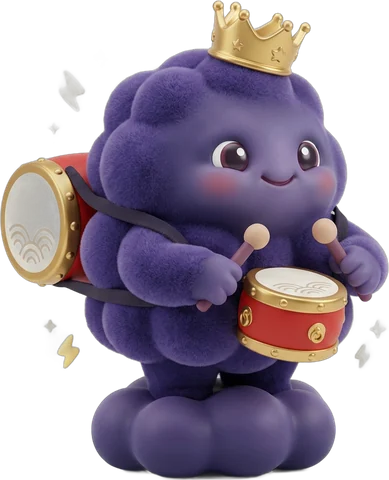
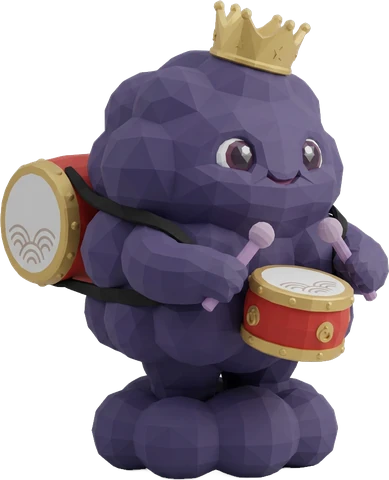
Sakuradalen: low poly-monstre, samlekort, pappeske/trekasse/gullskrin og påkledningsfigur
- Alle 20 monstrene i low poly, vist på samlekort i klassefargen
- Fangstvinduet: monsteret stort, boksen som liten figur
- Boks-verkstedet og nye boksnavn (lagrede spill flyttes over)
- Kle på seg og Klær som passer: eleven kler på en figur (bilder/kle)

Claude-Session: https://claude.ai/code/session_014BdYtb4wo7uebnU85BWQs8

diff --git a/sakuradalen/oppgaver.js b/sakuradalen/oppgaver.js
@@ -156,10 +156,38 @@ var HENDER_STEG = [null,
   ['🚰 Skru på vannet','🧼 Ta såpe','👐 Gni hendene godt','💦 Skyll av såpa','🧻 Tørk hendene']
 ];
 var KLE_PAA = [null,
-  [['🩲 Truse','👖 Bukse','👟 Sko'], ['👕 T-skjorte','🧶 Genser','🧥 Jakke'], ['🧦 Sokker','👟 Sko'], ['🧥 Jakke','🎒 Sekk']],
-  [['🩲 Truse','👖 Bukse','👟 Sko','🚪 Gå ut'], ['👕 T-skjorte','🧶 Genser','🧥 Jakke','🎒 Sekk'], ['🧦 Ullsokker','🧥 Vinterdress','🥾 Vintersko','🧤 Votter']],
-  [['🩲 Truse','👕 T-skjorte','🧶 Genser','🧥 Jakke','🎒 Sekk'], ['🩲 Undertøy','🧦 Ullsokker','🧥 Vinterdress','🥾 Vintersko','🧤 Votter'], ['👕 T-skjorte','🧶 Genser','🧥 Jakke','🦺 Refleksvest','🎒 Sekk']]
+  [['🩲 Truse','👖 Bukse','👟 Sko'], ['👕 T-skjorte','🧶 Genser','🧥 Jakke'], ['🧦 Sokker','👖 Bukse','👟 Sko'], ['👕 T-skjorte','🧥 Jakke','🎒 Sekk']],
+  [['🩲 Truse','🧦 Sokker','👖 Bukse','👟 Sko'], ['👕 T-skjorte','🧶 Genser','🧥 Jakke','🎒 Sekk'], ['🧦 Ullsokker','🧥 Vinterdress','🥾 Vintersko','🧤 Votter'], ['🩲 Truse','👖 Bukse','👕 T-skjorte','🧶 Genser']],
+  [['🩲 Truse','🧦 Sokker','👖 Bukse','👕 T-skjorte','🧶 Genser','👟 Sko'], ['🩲 Undertøy','🧦 Ullsokker','🧥 Vinterdress','🥾 Vintersko','🧤 Votter'], ['👕 T-skjorte','🧶 Genser','🧥 Jakke','🦺 Refleksvest','🎒 Sekk'], ['🩲 Truse','🧦 Sokker','👖 Bukse','👕 T-skjorte','🧥 Jakke','👟 Sko','🎒 Sekk']]
 ];
+/* Påkledningsfiguren. Figuren og plaggene ligger i bilder/kle/. Plaggene er tegnet på figuren (Higgsfield) og klipt ut,
+   så hvert plagg har sin faste plass: KLE_POS = [venstre, topp, bredde] i prosent av figurbildet (lages sammen med bildene).
+   s = plassen på kroppen (to plagg på samme plass bytter med hverandre), z = hvilket lag det ligger i (høyest ligger øverst),
+   etter = plagg som må være på FØR dette i «Kle på seg» (gjelder bare de som er med i oppgaven). */
+var KROPP = {
+  truse:{s:'under',z:1}, undertoy:{s:'under',z:1},
+  sokker:{s:'sokk',z:2,etter:['truse','undertoy']}, ullsokker:{s:'sokk',z:2,etter:['undertoy']},
+  bukse:{s:'bein',z:3,etter:['truse','undertoy','sokker']}, shorts:{s:'bein',z:3}, badetoy:{s:'bein',z:3},
+  tskjorte:{s:'skjorte',z:4,etter:['truse']}, pentoy:{s:'skjorte',z:4},
+  genser:{s:'genser',z:5,etter:['tskjorte']}, gymtoy:{s:'hel',z:5}, pysj:{s:'hel',z:5}, vinterdress:{s:'hel',z:5,etter:['undertoy','ullsokker']}, regnbukse:{s:'ytterbein',z:5},
+  sko:{s:'fot',z:6,etter:['sokker','bukse']}, gymsko:{s:'fot',z:6}, pensko:{s:'fot',z:6}, sandaler:{s:'fot',z:6}, tofler:{s:'fot',z:6}, stovler:{s:'fot',z:6},
+  vintersko:{s:'fot',z:6,etter:['vinterdress','ullsokker']},
+  jakke:{s:'jakke',z:9,etter:['tskjorte','genser']}, regnjakke:{s:'jakke',z:9}, vinterjakke:{s:'jakke',z:9},
+  refleksvest:{s:'vest',z:10,etter:['jakke']}, sekk:{s:'rygg',z:11,etter:['jakke','refleksvest','sko']}, skjerf:{s:'hals',z:12},
+  lue:{s:'hode',z:13}, caps:{s:'hode',z:13}, solhatt:{s:'hode',z:13}, solbriller:{s:'ansikt',z:13},
+  votter:{s:'hand',z:13,etter:['vinterdress','vintersko']}, handkle:{s:'arm',z:13}
+};
+var KLE_FORHOLD = '876/1143';
+var KLE_POS = {
+  badetoy:[29.0,54.77,42.12], bukse:[29.45,54.77,41.21], caps:[31.51,4.72,37.1], genser:[5.02,33.86,89.5], gymsko:[25.34,84.08,49.43], gymtoy:[20.09,34.12,59.93],
+  handkle:[68.49,39.98,24.77], jakke:[6.16,31.67,87.79], lue:[30.37,1.05,39.27], pensko:[29.45,82.76,41.32], pentoy:[6.51,31.67,87.67], pysj:[8.45,33.95,83.33],
+  refleksvest:[29.45,33.51,41.32], regnbukse:[29.57,33.68,40.98], regnjakke:[6.74,28.08,86.76], sandaler:[30.02,86.7,40.07], sekk:[23.29,32.9,53.65], shorts:[29.68,54.86,40.87],
+  skjerf:[31.51,28.35,36.87], sko:[29.45,82.76,41.32], sokker:[30.94,81.36,38.24], solbriller:[31.39,15.84,37.33], solhatt:[15.64,4.81,68.95], stovler:[30.37,74.19,39.38],
+  tofler:[29.57,88.28,40.98], truse:[29.34,55.38,41.55], tskjorte:[19.18,33.6,61.76], ullsokker:[30.14,74.1,39.84], undertoy:[30.02,34.12,40.07], vinterdress:[10.05,28.43,80.14],
+  vinterjakke:[4.45,24.67,91.21], vintersko:[29.22,76.55,41.67], votter:[1.37,44.79,97.37]
+};
+/* Bakgrunnen bak figuren i «Klær som passer». */
+var KLE_SCENE = {'🌧':'#b9c6d6,#8fa3b8','❄':'#eaf3fb,#c9dcee','☀':'#fff3c4,#ffd98a','🏃':'#dff0d8,#b9dcae','🏊':'#cdeffa,#8fd3ee','🌙':'#3d3a66,#2b2440','🎂':'#fde3ee,#f6bcd2','🏖':'#cdeffa,#f6e3a8','💨':'#e9d9c0,#cdb48e'};
 /* Klær. Brukes i «klær som passer». */
 var PLAGG = {
   regnjakke:'🧥 Regnjakke', regnbukse:'👖 Regnbukse', stovler:'🥾 Gummistøvler', paraply:'☂ Paraply',
@@ -310,13 +338,15 @@ var LAG = {
   lek: function(niv){return situasjon(en(LEK), niv)},
   hjelp: function(niv){return situasjon(en(HJELP), niv)},
   hverdag: function(niv){return situasjon(en(HVERDAG), niv)},
-  rekkefolge: function(niv){return {sp:'Du skal kle på deg. Trykk på det du tar på først, og så videre.', bilde:'<span class="stor-e">👕</span>', type:'rekke', steg:en(KLE_PAA[niv])}},
+  rekkefolge: function(niv){ var steg = en(KLE_PAA[niv]);
+    return {sp:'Du skal kle på deg. Trykk på det du tar på først, og så videre.', hint:'Dra klærne bort på figuren, eller trykk på dem.', type:'kle', modus:'rekke', steg:steg,
+      plagg:stokk(steg.map(function(t){return {id:TING[t.slice(t.indexOf(' ')+1)], navn:t.slice(t.indexOf(' ')+1)}}))} },
   klaer: function(niv){
-    var k = en(KLAER), n = Math.min(niv, k.ok.length), ok = stokk(k.ok).slice(0,n), feil = stokk(k.feil).slice(0, niv===1 ? 2 : n);
-    var valg = stokk(ok.map(function(id){return {t:PLAGG[id], ok:true}}).concat(feil.map(function(id){return {t:PLAGG[id], ok:false}})));
-    var del = k.sp.split('. '), forst = del[0]+'.';
-    if(niv===1) return {sp:forst+' Hva passer best?', lyd:[forst,'Hva passer best?'], bilde:'<span class="stor-e">'+k.e+'</span>', type:'valg', lang:true, valg:valg};
-    return {sp:k.sp+' Velg '+n+' ting.', lyd:[forst, del[1], 'Velg '+tallord(n)+' ting.'], bilde:'<span class="stor-e">'+k.e+'</span>', type:'flere', valg:valg};
+    /* Figuren kles på: alle plaggene som passer må på, og ingen av de som ikke passer. Høyere nivå gir flere plagg å velge mellom. */
+    var k = en(KLAER), n = Math.min(niv+1, k.ok.length), ok = stokk(k.ok).slice(0,n), feil = stokk(k.feil).slice(0, niv+1);
+    var navn = function(id){var t = PLAGG[id]; return t.slice(t.indexOf(' ')+1)}, del = k.sp.split('. ');
+    return {sp:k.sp, lyd:[del[0]+'.', del[1]], hint:'Dra det som passer bort på figuren, eller trykk på det. Trykk «Ferdig» når du er klar.', type:'kle', modus:'velg', scene:k.e,
+      steg:ok.map(function(id){return PLAGG[id]}), ok:ok, plagg:stokk(ok.concat(feil)).map(function(id){return {id:id, navn:navn(id)}})};
   }
 };
 function situasjon(q, niv){return {sp:q.sp, bilde:'<span class="stor-e">'+q.e+'</span>', type:'valg', lang:true, valg:valgFra(q.ok, q.feil, niv===1 ? 2 : 3)}}
@@ -357,7 +387,7 @@ document.addEventListener('click', function(e){ if(e.target.closest && e.target.
 function klargjor(o){
   o.lyd = o.lyd || [ore(o.sp)];
   (o.valg||[]).forEach(function(v){ if(o.engelsk){v.l = v.t; v.eng = true} else if(v.l === undefined) v.l = o.bildevalg || /^\d+$/.test(v.t) ? null : ore(v.t) });
-  if(o.steg) o.stegLes = o.steg.map(ore);
+  if(o.steg && o.type!=='kle') o.stegLes = o.steg.map(ore);
   return o;
 }
 function klipp(o){ klargjor(o); return o.lyd.concat((o.valg||[]).filter(function(v){return v.l && !v.eng}).map(function(v){return v.l}), o.stegLes||[]) }
@@ -382,6 +412,10 @@ function kalkHtml(){
   return '<div class="kalk"><output id="kdisp" aria-live="polite">0</output><div class="ktast">'+['7','8','9','+','4','5','6','−','1','2','3','×','C','0','=','÷'].map(function(k){
     return '<button data-k="'+k+'" class="'+(/\d/.test(k)?'':'op')+(k==='='?' er':'')+'">'+k+'</button>'}).join('')+'</div></div>';
 }
+function plaggPaa(id){
+  var p = KLE_POS[id];
+  return '<button class="kpaa" data-av="'+id+'" style="left:'+p[0]+'%;top:'+p[1]+'%;width:'+p[2]+'%;z-index:'+KROPP[id].z+'" aria-label="Ta av"><img src="bilder/kle/'+id+'.webp" alt=""></button>';
+}
 function vis(o, stasjon, ferdig, feil){
   klargjor(o);
   var tm = TEMA[o.tema], kropp = '', feilet = false, alt = function(i, l, inni){return l ? '<span class="alt"><button class="hor" data-hor="'+i+'" aria-label="Hør">🔊</button>'+inni+'</span>' : inni};
@@ -390,6 +424,9 @@ function vis(o, stasjon, ferdig, feil){
   if(o.type==='linje') kropp = linjeHtml(o.linje, true);
   if(o.type==='kalk')  kropp = kalkHtml()+'<p class="midt"><button class="gull" data-sjekk>Dette er svaret</button></p>';
   if(o.type==='rekke') kropp = '<ol class="rekke" id="rlagt"></ol><div class="svar lang" id="rvalg">'+stokk(o.steg.map(function(t,i){return {t:t,i:i}})).map(function(v){return alt(v.i, o.stegLes[v.i], '<button data-i="'+v.i+'">'+pynt(v.t)+'</button>')}).join('')+'</div>';
+  if(o.type==='kle') kropp = '<p class="khint">'+esc(o.hint)+'</p><div class="kle"><div class="kfig" id="kfig"'+(o.scene?' style="background:linear-gradient('+KLE_SCENE[o.scene]+')"':'')+'>'+(o.scene?'<span class="kvaer">'+(o.scene==='💨'?'🍂':o.scene)+'</span>':'')+'<div class="kdukke" style="aspect-ratio:'+KLE_FORHOLD+'"><img class="kbase" src="bilder/kle/figur.webp" alt="">'+'</div></div>'+
+    '<div class="kskuff" id="kskuff">'+o.plagg.map(function(p){return '<button data-p="'+p.id+'"><img src="bilder/kle/'+p.id+'.webp" alt="" draggable="false"><span>'+esc(p.navn)+'</span></button>'}).join('')+'</div></div>'+
+    (o.modus==='velg' ? '<p class="midt"><button class="gull" data-sjekk>Ferdig</button></p>' : '');
   if(o.type==='skriv'){ var bok = o.ord.split(''); for(var x=0;x<o.ekstra;x++) bok.push(en('aeiorstln'.split('')));
     kropp = '<div class="ordfelt" id="ofelt" aria-live="polite"></div><div class="brikker">'+stokk(bok.map(function(b,i){return {b:b,i:i}})).map(function(v){return '<button data-b="'+v.b+'" data-i="'+v.i+'">'+v.b+'</button>'}).join('')+'</div><p class="midt"><button class="sek" data-visk>⌫ Visk ut</button></p>'; }
   dialog('<div class="rad" style="margin-bottom:6px"><h2 style="flex:1;margin:0;font-size:1.1rem">'+tm.ik+' '+tm.navn+'</h2><button class="sek lyd" data-les aria-label="Les opp">🔊</button></div>'+
@@ -397,6 +434,48 @@ function vis(o, stasjon, ferdig, feil){
     '<p class="tilbakemelding" id="tmeld" aria-live="assertive"></p><p style="margin-top:10px"><button class="sek" data-a="lukk">'+(feil?'Gi opp dysten':'Avbryt')+'</button></p>',
     function(el){
       el.classList.add('oppg'); if(o.type==='linje') el.classList.add('vid');
+      /* ----- påkledning ----- */
+      var paa = [], dratt = false;
+      function med(id){return o.plagg.some(function(p){return p.id===id})}
+      function skuffKnapp(id){return el.querySelector('#kskuff [data-p="'+id+'"]')}
+      function rist(k){ if(!k) return; k.classList.add('rist'); setTimeout(function(){k.classList.remove('rist')}, 400) }
+      function taAv(id){ var i = paa.indexOf(id); if(i<0) return; paa.splice(i,1); var b = el.querySelector('#kfig [data-av="'+id+'"]'); if(b) b.remove(); var k = skuffKnapp(id); if(k) k.classList.remove('brukt') }
+      function taPaa(id){
+        var p = KROPP[id], k = skuffKnapp(id); if(!p || paa.indexOf(id)>=0) return;
+        if(o.modus==='rekke'){
+          var mangler = (p.etter||[]).filter(function(x){return med(x) && paa.indexOf(x)<0});
+          if(mangler.length){ rist(k); mangler.forEach(function(x){ var m = skuffKnapp(x); if(m){ m.classList.add('forst'); setTimeout(function(){m.classList.remove('forst')}, 1600) } }); return galt(FEILMELD.rekke) }
+        }
+        paa.filter(function(x){return KROPP[x].s===p.s}).forEach(taAv);   // to plagg på samme plass bytter med hverandre
+        paa.push(id); k.classList.add('brukt'); meld.textContent = '';
+        el.querySelector('#kfig .kdukke').insertAdjacentHTML('beforeend', plaggPaa(id));
+        if(o.modus==='rekke' && paa.length === o.plagg.length) setTimeout(riktig, 900);
+      }
+      if(o.type==='kle'){
+        var fig = el.querySelector('#kfig'), spok = null, start = null;
+        el.querySelector('#kskuff').addEventListener('pointerdown', function(e){
+          var k = e.target.closest('[data-p]'); if(!k || k.disabled || k.classList.contains('brukt')) return;
+          start = {k:k, x:e.clientX, y:e.clientY, id:e.pointerId}; dratt = false;
+        });
+        var flytt = function(e){
+          if(!start || e.pointerId !== start.id) return;
+          if(!spok){ if(Math.hypot(e.clientX-start.x, e.clientY-start.y) < 10) return;
+            dratt = true; stopp(); spok = start.k.querySelector('img').cloneNode(); spok.className = 'kspok'; document.body.appendChild(spok); start.k.classList.add('dras') }
+          spok.style.left = e.clientX+'px'; spok.style.top = e.clientY+'px';
+          var r = fig.getBoundingClientRect(); fig.classList.toggle('over', e.clientX>r.left && e.clientX<r.right && e.clientY>r.top && e.clientY<r.bottom);
+          e.preventDefault();
+        };
+        var slipp = function(e){
+          if(!start || (e.pointerId !== undefined && e.pointerId !== start.id)) return;
+          var k = start.k, traff = fig.classList.contains('over'); start = null; k.classList.remove('dras'); fig.classList.remove('over');
+          if(spok){ spok.remove(); spok = null; if(traff && document.body.contains(el)) taPaa(k.dataset.p) }
+          setTimeout(function(){dratt = false}, 0);
+        };
+        window.addEventListener('pointermove', flytt, {passive:false}); window.addEventListener('pointerup', slipp); window.addEventListener('pointercancel', slipp);
+        /* rydder opp når oppgaven lukkes */
+        var vakt = new MutationObserver(function(){ if(!document.body.contains(el)){ vakt.disconnect(); window.removeEventListener('pointermove', flytt); window.removeEventListener('pointerup', slipp); window.removeEventListener('pointercancel', slipp); if(spok) spok.remove() } });
+        vakt.observe(document.getElementById('lag'), {childList:true});
+      }
       var meld = el.querySelector('#tmeld'), lagt = [], skrevet = [], disp = '0', forrigeTall = null, op = null, nytt = true;
       function knapp(i){return el.querySelector('[data-i="'+i+'"]')}
       function lesAlt(){
@@ -414,6 +493,16 @@ function vis(o, stasjon, ferdig, feil){
         if('les' in d) return lesAlt();
         if(d.hor !== undefined){ var hv = o.valg ? o.valg[+d.hor] : {l:o.stegLes[+d.hor]}; return spill([{t:hv.l, eng:hv.eng, el:knapp(d.hor)}]) }
         stopp();
+        if(o.type==='kle'){
+          if(d.p){ if(dratt || k.classList.contains('brukt')) return; return taPaa(d.p) }
+          if(d.av){ if(o.modus==='rekke' && paa.some(function(x){return (KROPP[x].etter||[]).indexOf(d.av)>=0})) return rist(k);   // kan ikke ta av noe som ligger under noe annet
+            return taAv(d.av) }
+          if('sjekk' in d){
+            var gale = paa.filter(function(x){return o.ok.indexOf(x)<0});
+            if(gale.length){ gale.forEach(function(x){ var s = skuffKnapp(x); taAv(x); s.classList.add('feil'); s.disabled = true }); return galt(FEILMELD.passet) }
+            if(o.ok.some(function(x){return paa.indexOf(x)<0})) return galt(FEILMELD.mangler);
+            return riktig() }
+          return }
         if(o.type==='valg' && d.i!==undefined){ if(o.valg[+d.i].ok) return riktig(); k.classList.add('feil'); k.disabled = true; return galt() }
         if(o.type==='flere'){
           if(d.i!==undefined){ k.setAttribute('aria-pressed', k.getAttribute('aria-pressed')!=='true'); meld.textContent = ''; return }
@@ -443,7 +532,7 @@ function vis(o, stasjon, ferdig, feil){
             el.querySelector('#kdisp').textContent = disp.replace('.',','); meld.textContent = '' }
         }
       });
-    }, o.type==='linje' || o.bildevalg);
+    }, o.type==='linje' || o.bildevalg || o.type==='kle');
 }
 
 /* ---------- Stil ---------- */
@@ -463,6 +552,15 @@ st.textContent = '.oppg .spm{font-size:1.25rem;font-weight:700;margin:4px 0 10px
   '.tl .tp.start::before{content:"Start";position:absolute;top:-30px;font-size:.8rem;font-weight:700;background:var(--hav);color:#fff;border-radius:8px;padding:1px 7px}.tl .tp.start i{background:var(--hav);width:6px}'+
   '.kalk{max-width:300px;margin:8px auto;background:var(--ink);border-radius:18px;padding:12px}.kalk output{display:block;background:#e4f5d8;border-radius:10px;padding:8px 12px;text-align:right;font-family:Fredoka,monospace;font-size:1.9rem;font-weight:700;margin-bottom:10px;min-height:1.5em}'+
   '.ktast{display:grid;grid-template-columns:repeat(4,1fr);gap:8px}.ktast button{min-height:54px;font-size:1.4rem;padding:0;background:#fffaf3;color:var(--ink)}.ktast button.op{background:var(--kant)}.ktast button.er{background:var(--gull)}'+
+  '.khint{margin:-4px 0 8px;font-size:.95rem;color:#5a5070}.kle{display:flex;gap:12px;align-items:stretch}'+
+  '.kfig{position:relative;flex:0 0 48%;max-width:320px;border-radius:18px;background:linear-gradient(#f3ecf6,#e6dcea);border:3px solid var(--kant);overflow:hidden;align-self:flex-start;padding:8px 6px 4px}.kfig.over{border-color:var(--gull);box-shadow:0 0 0 4px #f2c23066}'+
+  '.kdukke{position:relative;width:100%}.kbase{position:absolute;inset:0;width:100%;height:100%;display:block}.kvaer{position:absolute;right:6px;top:2px;font-size:2.2rem;line-height:1.2;z-index:1}'+
+  '.oppg .kpaa{position:absolute;padding:0;min-height:0;background:none;border:0;border-radius:0}.kpaa img{display:block;width:100%;pointer-events:none}'+
+  '.kskuff{flex:1;min-width:0;display:grid;grid-template-columns:repeat(auto-fill,minmax(92px,1fr));gap:8px;align-content:start}'+
+  '.oppg .kskuff button{background:var(--lys);color:var(--ink);border:3px solid var(--kant);padding:6px 4px;min-height:0;font-size:.85rem;display:flex;flex-direction:column;align-items:center;gap:2px;touch-action:none;user-select:none;-webkit-user-select:none}'+
+  '.kskuff img{width:64px;height:64px;object-fit:contain;pointer-events:none}.kskuff .brukt{opacity:.25}.kskuff .dras{opacity:.4}.oppg .kskuff .feil{background:#f6c9c4;opacity:.6}.oppg .kskuff .forst{border-color:var(--gull);box-shadow:0 0 0 4px #f2c23066}'+
+  '.kspok{position:fixed;width:96px;height:96px;object-fit:contain;transform:translate(-50%,-60%);pointer-events:none;z-index:99;filter:drop-shadow(0 6px 6px rgba(43,36,64,.35))}'+
+  '@media(max-width:520px){.kle{flex-direction:column;align-items:center}.kfig{flex:none;width:72%;align-self:center}.kskuff{width:100%;grid-template-columns:repeat(auto-fill,minmax(76px,1fr))}.kskuff img{width:48px;height:48px}}'+
   '.rekke{margin:0 0 10px;padding-left:1.6em;min-height:1em}.rekke li{background:#d8f0d6;border-radius:12px;padding:8px 12px;margin-bottom:6px;font-weight:700}'+
   '.ordfelt{display:flex;justify-content:center;gap:6px;margin:8px 0 14px}.ordfelt span{width:48px;height:56px;border-bottom:4px solid var(--ink);font-family:Fredoka,sans-serif;font-size:2rem;font-weight:700;text-align:center;line-height:52px}'+
   '.brikker{display:flex;flex-wrap:wrap;justify-content:center;gap:8px}.brikker button{width:56px;min-height:56px;padding:0;font-size:1.6rem;font-family:Fredoka,sans-serif;background:var(--lys);color:var(--ink);border:3px solid var(--kant)}'+

diff --git a/sakuradalen/index.html b/sakuradalen/index.html
@@ -119,7 +119,7 @@ input[type=text]{font:inherit;padding:12px;border-radius:12px;border:2px solid #
 .boksvalg{background:#fff;color:var(--ink);border:2px solid var(--kant);padding:8px 4px;display:flex;flex-direction:column;align-items:center;font-size:.9rem}
 .boksvalg small{display:block;font-weight:400;font-size:.78rem}
 .boksvalg:disabled{background:#f6f3f8;color:#6a6080;opacity:.75}
-.iboks{position:relative;display:inline-block}.iboks>span{position:absolute;left:50%;top:-6px;transform:translateX(-50%)}
+.iboks{position:relative;display:inline-block}.iboks>.hjorne{position:absolute;right:-34px;bottom:-12px;filter:drop-shadow(0 2px 3px rgba(43,36,64,.35))}
 .ring{display:grid;grid-template-columns:1fr auto 1fr;gap:8px;align-items:center;text-align:center;margin:8px 0}
 .ring strong{display:block}.ring .mot{font-family:Fredoka,sans-serif;font-weight:700;color:#6a6080}
 .ring .sliten svg,.ring .sliten img{filter:grayscale(1);opacity:.55;transform:rotate(18deg)}
@@ -128,7 +128,12 @@ input[type=text]{font:inherit;padding:12px;border-radius:12px;border:2px solid #
 .logg{background:var(--lys);border-radius:14px;padding:10px 12px;margin:10px 0;min-height:3.2em}.logg p{margin:0 0 4px}.logg p:last-child{margin:0}
 .fag{width:100%;border-collapse:collapse;font-size:.9rem}.fag th,.fag td{text-align:left;padding:5px 6px;border-bottom:1px solid var(--kant)}.fag td{white-space:nowrap}
 .mbilde{object-fit:contain;vertical-align:middle}.mbilde.ukjent{filter:brightness(0);opacity:.28}
-.iboks>span{top:-22px}
+/* Samlekortet monstrene står på: lys bunn i klassefargen, mørk kant. Legendariske får gullkant. */
+.mkort{display:inline-grid;place-items:center;flex:none;box-sizing:border-box;vertical-align:middle;border:3px solid var(--ink);border-radius:18%;overflow:hidden;
+  background:radial-gradient(circle at 50% 38%,#fff 0 22%,color-mix(in srgb,var(--kf) 38%,#fff) 70%,color-mix(in srgb,var(--kf) 62%,#fff) 100%)}
+.mkort img{width:84%;height:84%}
+.mkort.sj2{box-shadow:0 0 0 3px #9cc3f2}.mkort.sj3{box-shadow:0 0 0 3px var(--gull)}
+.mkort.ukjent{background:#ece8f0;box-shadow:none}
 .boksvalg .sjanse{font-weight:700;border-radius:999px;padding:1px 8px;margin-top:3px}.sjanse.s3{background:#d8f0d6;color:#1d5a2a}.sjanse.s2{background:#fff0c2;color:#7a5600}.sjanse.s1{background:#f6d6d2;color:#8f2a24}
 .stakk{display:inline-block;opacity:.45;transform:translateX(40px) rotate(12deg)}
 .iko{width:1.35em;height:1.35em;object-fit:contain;vertical-align:-.32em}.brikke .iko{width:1.2em;height:1.2em}#gir .iko{width:30px;height:30px;vertical-align:middle}h2 .iko{width:1.5em;height:1.5em}
@@ -170,7 +175,7 @@ input[type=text]{font:inherit;padding:12px;border-radius:12px;border:2px solid #
 var OPPSETT = {
   mynterPerOppgave: 5,    // mynter for én løst oppgave (fangst, trening og dyst)
   startmynter: 10,
-  startbokser: 3,         // trekasser fra start
+  startbokser: 3,         // pappesker fra start
   nyttMonsterBonus: 5,    // ekstra mynter første gang et monster havner i Monsterboka
   dublett: [2, 6, 15],    // mynter for et monster du har fra før (vanlig, sjelden, legendarisk)
   nyFlaks: 3,             // monstre som mangler i boka dukker opp så mange ganger oftere
@@ -179,7 +184,7 @@ var OPPSETT = {
   dojoTak: [0, 5, 10, 15],// høyeste nivå en egenskap kan trenes til på dojo nivå 1, 2 og 3
   arenaTrinn: [0, 3, 7, 10], // hvor mange motstandere som er åpne på arena nivå 1, 2 og 3
   /* FANGST. Sjansen (i prosent) for at monsteret blir i boksen: [vanlig, sjelden, legendarisk] for hver boks. */
-  fangst: {tre:[80,35,10], lakk:[95,65,30], gull:[100,90,60]},
+  fangst: {papp:[80,35,10], tre:[95,65,30], gull:[100,90,60]},
   fangstOppgaver: [1, 2, 3],  // hvor mange oppgaver eleven må løse for å lukke boksen (vanlig, sjelden, legendarisk)
   fangstRiktig: 10,           // sjansen øker så mye for hver oppgave som er riktig på første forsøk
   fangstFeil: 10              // og synker så mye for hver oppgave der første forsøk var galt
@@ -190,7 +195,7 @@ var OMRADER = [
   {id:'skog',     ik:'🎋', navn:'Bambusskogen',     x:-42, z:-33, h:9,   om:'Åpne bambusskogen. Her gjemmer skog- og steinmonstre seg.'},
   {id:'strand',   ik:'🐚', navn:'Stranda',          x:44,  z:3,   h:5.5, om:'Åpne stranda. Her finner du vannmonstre.'},
   {id:'dojo',     ik:'🥋', navn:'Dojoen',           x:-21, z:-10, h:9.5},
-  {id:'verksted', ik:'🔨', navn:'Bokseverkstedet',  x:-37, z:4,   h:6.5},
+  {id:'verksted', ik:'🔨', navn:'Boks-verkstedet',  x:-37, z:4,   h:6.5},
   {id:'arena',    ik:'🥁', navn:'Dyst-arenaen',     x:38,  z:-21, h:8,   om:'Bygg arenaen og utfordre vokterne i dalen til oppgaveduell.'},
   {id:'trofe',    ik:'🏆', navn:'Troférommet',      x:-8,  z:-56, h:11,  h0:8.5, om:'Bygg et troférom på høyden. Her står pokalene og merkene dine.'}
 ];
@@ -201,7 +206,7 @@ var BYGG = {
   skog:     {navn:'Bambusskogen',    hva:['','Lysning i bambusen','Steinsti og lykt','Port til den hellige steinen'], gir:'Sjeldnere monstre våger seg fram.'},
   strand:   {navn:'Stranda',         hva:['','Sandstrand med fjærepytt','Båtplass og parasoll','Klippeport og port i sjøen'], gir:'Sjeldnere monstre våger seg fram.'},
   dojo:     {navn:'Dojo',            hva:['','Enkel dojo (nivå 5)','Treningshall (nivå 10)','Mesterpagode (nivå 15)'], gir:'Monstrene kan trenes til høyere nivå.'},
-  verksted: {navn:'Bokseverksted',   hva:['','Lager trekasser','Lager lakkesker','Lager gullskrin'], gir:'Bedre bokser fanger sjeldnere monstre.'},
+  verksted: {navn:'Boks-verksted',   hva:['','Lager pappesker','Lager trekasser','Lager gullskrin'], gir:'Bedre bokser fanger sjeldnere monstre.'},
   arena:    {navn:'Arena',           hva:['','Ring med 3 motstandere','Tribuner og 4 nye motstandere','Tak, trommer og de 3 siste'], gir:'Flere motstandere og større pokaler.'},
   trofe:    {navn:'Troférom',        hva:['','Liten paviljong','Trofésal','Den gylne paviljongen'], gir:'Finere plass til pokalene dine.'}
 };
@@ -232,8 +237,8 @@ var FANGST = {id:'fangst', ik:'📦', navn:'Lukk boksen',   fag:'Fag 5 (f.eks. b
 var DYST   = {id:'dyst',   ik:'🥁', navn:'Oppgaveduell',  fag:'Blandet fra alle fagene'};
 /* Boksene. niv = verkstednivået som trengs. Hvor godt hver boks fanger, står i OPPSETT.fangst. */
 var BOKSER = [
-  {id:'tre',  navn:'Trekasse',  fl:'trekasser', pris:2,  niv:1, om:'Fin til vanlige monstre. Sjeldne stikker ofte av.'},
-  {id:'lakk', navn:'Lakkeske',  fl:'lakkesker', pris:8,  niv:2, om:'God til vanlige og sjeldne monstre.'},
+  {id:'papp', navn:'Pappeske',  fl:'pappesker', pris:2,  niv:1, om:'Fin til vanlige monstre. Sjeldne stikker ofte av.'},
+  {id:'tre',  navn:'Trekasse',  fl:'trekasser', pris:8,  niv:2, om:'God til vanlige og sjeldne monstre.'},
   {id:'gull', navn:'Gullskrin', fl:'gullskrin', pris:20, niv:3, om:'Den beste boksen. Trengs til de legendariske.'}
 ];
 /* MONSTRENE. kl = klasse, sj = sjeldenhet (1–3), sted = hvor det lever, c = farge på plassholderen.
@@ -303,11 +308,11 @@ function klasse(m){return finn(KLASSER,m.kl)}
 var S = null, apen = null;
 var NOKKEL = 'sakuradalen-spill';
 function lagre(){try{localStorage.setItem(NOKKEL, JSON.stringify(S))}catch(e){}}
-function hent(){try{var t=localStorage.getItem(NOKKEL);t=t?JSON.parse(t):null;return t&&t.v===1?t:null}catch(e){return null}}
+function hent(){try{var t=localStorage.getItem(NOKKEL);t=t?JSON.parse(t):null;if(t&&t.bokser&&'lakk' in t.bokser)t.bokser={papp:t.bokser.tre||0,tre:t.bokser.lakk||0,gull:t.bokser.gull||0};return t&&t.v===1?t:null}catch(e){return null}}
 function nyttSpill(navn, f1, f2){
   S = {v:1, navn:navn||'Sakuradalen', f1:f1||FARGER[0], f2:f2||FARGER[6], mynter:OPPSETT.startmynter, oppg:0, fanget:0, dyster:0,
        anlegg:{eng:1, skog:0, strand:0, dojo:1, verksted:1, arena:0, trofe:0},
-       bokser:{tre:OPPSETT.startbokser, lakk:0, gull:0},
+       bokser:{papp:OPPSETT.startbokser, tre:0, gull:0},
        monstre:{},        // id -> {n: hvor mange fanget, st:[nivå på de fire egenskapene], tp:[treningspoeng mot neste nivå]}
        valgt:'',          // monsteret som trener og går i arenaen
        pokaler:0};        // hvor mange motstandere som er slått
@@ -319,7 +324,7 @@ function eier(id){return S.anlegg[id]>0}
 function antall(){return Object.keys(S.monstre).length}
 function mine(){return MONSTRE.filter(function(m){return S.monstre[m.id]})}
 function toppNiv(){var t=0; for(var id in S.monstre) S.monstre[id].st.forEach(function(n){if(n>t)t=n}); return t}
-function bokserTotalt(){return S.bokser.tre+S.bokser.lakk+S.bokser.gull}
+function bokserTotalt(){return S.bokser.papp+S.bokser.tre+S.bokser.gull}
 function dojoTak(){return OPPSETT.dojoTak[S.anlegg.dojo]}
 /* Hvor mange treningsoppgaver som trengs for å gå opp fra dette nivået. */
 function kravTP(niv){return niv<5 ? 1 : niv<10 ? 2 : 3}
@@ -416,7 +421,11 @@ function startOppgave(stasjon, ferdig, feil, niv){
 var INK = '#2b2440';
 function monsterSvg(m, str, ukjent){
   str = str||56;
-  if(m.bilde) return '<img class="mbilde'+(ukjent?' ukjent':'')+'" src="'+m.bilde+'" width="'+str+'" height="'+str+'" alt="">';   // ukjent = vises som skygge
+  if(m.bilde){   // ukjent = vises som skygge. Fra 44 px og opp står monsteret på et samlekort i klassefargen.
+    var img = '<img class="mbilde'+(ukjent?' ukjent':'')+'" src="'+m.bilde+'" width="'+str+'" height="'+str+'" alt="">';
+    if(str < 44) return img;
+    return '<span class="mkort sj'+m.sj+(ukjent?' ukjent':'')+'" style="--kf:'+klasse(m).c+';width:'+str+'px;height:'+str+'px">'+img+'</span>';
+  }
   var c = ukjent ? '#cfc8d6' : m.c, k, s = 'fill="'+c+'" stroke="'+INK+'" stroke-width="2.5" stroke-linejoin="round"';
   if(m.kl==='skog')  k = '<path d="M32 16 C24 4 14 6 14 6 C14 14 22 18 30 18Z M32 16 C40 4 50 6 50 6 C50 14 42 18 34 18Z" fill="'+(ukjent?c:'#3a8a4c')+'" stroke="'+INK+'" stroke-width="2.5" stroke-linejoin="round"/><circle cx="32" cy="38" r="21" '+s+'/>';
   if(m.kl==='vann')  k = '<path d="M32 5 C44 21 54 31 54 41 A22 21 0 0 1 10 41 C10 31 20 21 32 5Z" '+s+'/>';
@@ -479,7 +488,7 @@ function jaktPanel(v){
   var tekst = {eng:'Høyt gress og kirsebærtrær. Her trives vind- og ildmonstre.', skog:'Tett bambus og mosegrodde steiner. Her trives skog- og steinmonstre.', strand:'Sand, fjærepytter og klipper. Her trives vannmonstre.'}[v];
   return '<p class="liten">'+tekst+'</p>'+boksLager()+
     '<div class="rad" style="margin-top:10px"><button class="gull" data-jakt="'+v+'"'+(bokserTotalt()<1?' disabled':'')+'>🔍 Let etter monstre</button><button class="sek" data-omr="verksted">Hent bokser</button></div>'+
-    (bokserTotalt()<1?'<p class="liten" style="margin-top:8px">Du er tom for bokser. Kjøp flere i bokseverkstedet.</p>':'')+
+    (bokserTotalt()<1?'<p class="liten" style="margin-top:8px">Du er tom for bokser. Kjøp flere i boks-verkstedet.</p>':'')+
     '<div class="del"><h3>Monstre her</h3>'+MONSTRE.filter(function(m){return m.sted===v}).sort(function(a,b){return a.sj-b.sj}).map(monsterRad).join('')+'</div>'+
     '<div class="del">'+byggRad(v)+'</div>';
 }
@@ -552,7 +561,7 @@ function lukk(){document.getElementById('lag').innerHTML=''; tegn()}
 function oppsettDialog(forste){
   var f1 = S?S.f1:FARGER[0], f2 = S?S.f2:FARGER[6];
   function rad(hvilken, valgt){return '<div class="farger" data-rad="'+hvilken+'">'+FARGER.map(function(c){return '<button style="background:'+c+'" data-farge="'+c+'" aria-pressed="'+(c===valgt)+'" aria-label="Farge '+c+'"></button>'}).join('')+'</div>'}
-  dialog('<h2>'+(forste?'Velkommen til dalen!':'Navn og farger')+'</h2>'+(forste?'<p>Du er den nye monstervokteren. Start i kirsebærenga med tre trekasser, og fyll Monsterboka.</p>':'')+
+  dialog('<h2>'+(forste?'Velkommen til dalen!':'Navn og farger')+'</h2>'+(forste?'<p>Du er den nye monstervokteren. Start i kirsebærenga med tre pappesker, og fyll Monsterboka.</p>':'')+
     '<label for="knavn"><strong>Hva heter dalen din?</strong></label><input type="text" id="knavn" maxlength="20" value="'+esc(S?S.navn:'')+'" placeholder="For eksempel Sakuradalen">'+
     '<p style="margin-top:12px"><strong>Farge på porter og faner</strong></p>'+rad('f1',f1)+'<p style="margin-top:12px"><strong>Farge på bånd</strong></p>'+rad('f2',f2)+
     '<div class="rad" style="margin-top:16px"><span id="dprove">'+emblemSvg(f1,f2,64)+'</span><button data-ok>'+(forste?'Start':'Lagre')+'</button>'+(forste?'':'<button class="sek" data-a="lukk">Avbryt</button>')+'</div>',
@@ -610,7 +619,7 @@ function fangst(v, m, boks, igjen, riktige, gale, mynter){
         var videre = (bokserTotalt() - 1 > 0 ? '<button class="gull" data-jakt="'+v+'">Let videre (📦 '+(bokserTotalt()-1)+')</button>' : '<button data-omr="verksted">Hent flere bokser</button>');
         if(klarte){
           var r = fang(m, boks);
-          dialog('<h2>'+(r.ny?'🌟 Nytt monster i Monsterboka!':'📦 Fanget!')+'</h2><p class="midt"><span class="iboks">'+boksSvg(boks,150)+'<span>'+monsterSvg(m,70)+'</span></span></p>'+
+          dialog('<h2>'+(r.ny?'🌟 Nytt monster i Monsterboka!':'📦 Fanget!')+'</h2><p class="midt"><span class="iboks">'+monsterSvg(m,170)+'<span class="hjorne">'+boksSvg(boks,72)+'</span></span></p>'+
             '<p class="stort">'+esc(m.navn)+'</p><p class="midt">+'+mynter+' 🪙 for oppgave'+(OPPSETT.fangstOppgaver[m.sj-1]>1?'ne':'n')+(r.ny?' og +'+r.bonus+' 🪙 for nytt monster':' og +'+r.bonus+' 🪙 fordi du hadde det fra før')+'</p>'+
             '<div class="rad">'+videre+(r.ny?'<button data-omr="dojo">🥋 Til dojoen</button>':'')+'<button class="sek" data-a="lukk">Ferdig</button></div>');
           if(window.sprett3D) window.sprett3D(v);
@@ -1139,10 +1148,10 @@ const BYGGERE = {
   },
   verksted(g, A, f, f2){
     const n = A.verksted; tomt(g, 5.6, STI);
-    const kasse = (x,y,z,c,s) => { s = s||1; box(g, .8*s, .6*s, .8*s, c, x, y+.3*s, z); flat(box(g, .86*s, .12*s, .86*s, c===0xc79a5b ? 0xa9793f : c===ROD ? 0x8f2a24 : 0xd9a520, x, y+.62*s, z)); };
+    const kasse = (x,y,z,c,s) => { s = s||1; box(g, .8*s, .6*s, .8*s, c, x, y+.3*s, z); flat(box(g, .86*s, .12*s, .86*s, c===0xc79a5b ? 0xa9793f : c===0x9c6b3c ? 0x7d5230 : 0xd9a520, x, y+.62*s, z)); };
     if(n === 1){ [[-1.6,-1],[1.6,-1],[-1.6,1],[1.6,1]].forEach(p => box(g, .2, 2.4, .2, TREMORK, p[0], 1.2, p[1]-1)); pagodetak(g, 3.2, 2, 1.1, TAK, 0, 2.4, -1, 1.4); box(g, 3, .9, .8, PLANKE, 0, .45, -.2); }
     else { tehus(g, 0, -1.6, 5.2, 2.4, 3.6, 1.8); skyvedor(g, -1.2, .23, .3, 1.3, 1.9); [-1.6,-1.2,-.8].forEach((x,i) => flat(box(g, .36, .8, .05, i%2 ? 0xffffff : f2, x, 1.9, .28)));
-      box(g, 2.6, .9, .9, PLANKE, 1.8, .45, 1.2); kasse(1.2, .9, 1.2, ROD, .7); kasse(2.3, .9, 1.2, ROD, .7); }
+      box(g, 2.6, .9, .9, PLANKE, 1.8, .45, 1.2); kasse(1.2, .9, 1.2, 0x9c6b3c, .7); kasse(2.3, .9, 1.2, 0x9c6b3c, .7); }
     kasse(-3, 0, 2.2, 0xc79a5b); kasse(-3.9, 0, 2.6, 0xc79a5b); kasse(-3.4, .7, 2.4, 0xc79a5b, .9); kasse(n===1 ? 0 : -1.8, n===1 ? .9 : 0, n===1 ? -.2 : 3.4, 0xc79a5b, .8);
     if(n >= 3){ box(g, 1.3, .7, 1.3, 0xb0b4b8, 3.8, .35, 3.2); kasse(3.8, .7, 3.2, GULL, 1); flat(kule(g, .14, 0xe8799b, 3.8, 1.56, 3.2));
       cyl(g, .7, .9, 1.6, 7, 0xb5523b, 3.6, .8, -3.4); cyl(g, .3, .4, 1.6, 6, 0xb5523b, 3.6, 2.3, -3.4); [0,1,2].forEach(i => flat(kule(g, .34+i*.12, 0xe9eef2, 3.6+i*.3, 3.5+i*.7, -3.4))); fane(g, -4.6, 0, -.6, f); }
